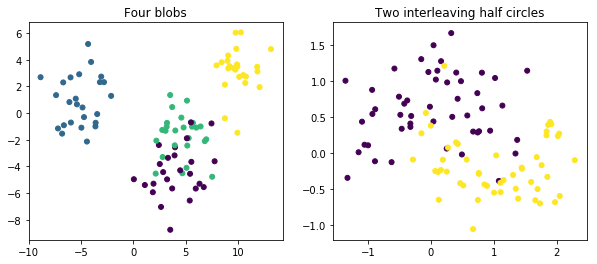
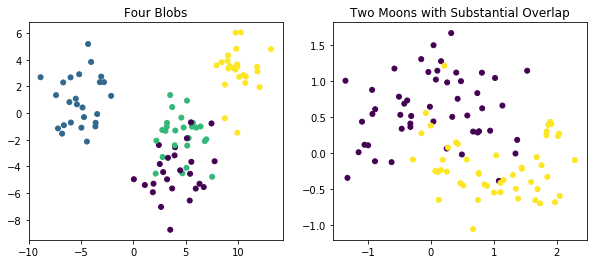
Updating directions.

Changed region(s): [[0.5729, 0.0303, 0.9648, 0.0909], [0.2412, 0.0303, 0.3317, 0.0606]]

diff --git a/README.md b/README.md
@@ -1,9 +1,9 @@
 
-# Kernels in scikit-learn - Lab
+# Kernels in sci-kit learn - Lab
 
 ## Introduction
 
-In this lab, we'll explore applying several types of Kernels on some more visual data. At the end of the lab, we'll be looking at a real-life data set again to see how SVMs can be of use there!
+In this lab, you'll explore applying several types of kernels on some more visual data. At the end of the lab, you'll then apply your knowledge of SVMs to a real world dataset!
 
 ## Objectives
 
@@ -15,7 +15,7 @@ You will be able to:
 
 ## The data
 
-Let's start this lab where we left things last time: we had a data set which clearly wasn't linearly separable. Next, we'll look at the data with four clusters, as non-linear boundaries might be appropriate here as well. Let's plot the data again.
+To start, reexamine the final datasets from the previous lab.
 
 
 ```python
@@ -30,12 +30,12 @@ import numpy as np
 
 plt.figure(figsize=(10, 4))
 plt.subplot(121)
-plt.title("Four blobs")
+plt.title("Four Blobs")
 X_3, y_3 = make_blobs(n_samples=100, n_features=2, centers=4, cluster_std=1.6, random_state = 123)
 plt.scatter(X_3[:, 0], X_3[:, 1], c = y_3, s=25)
 
 plt.subplot(122)
-plt.title("Two interleaving half circles")
+plt.title("Two Moons with Substantial Overlap")
 X_4, y_4 = make_moons(n_samples=100, shuffle = False , noise = 0.3, random_state=123)
 plt.scatter(X_4[:, 0], X_4[:, 1], c = y_4, s=25)
 
@@ -46,11 +46,11 @@ plt.show()
 ![png](index_files/index_7_0.png)
 
 
+  
+
 ## Explore the RBF kernel
 
-In this exercise, we'll explore the RBF kernel looking at the "Two interleaving half circles" data.
-
-Recall how a radial basis function kernel has 2 hyperparameters: `C` and `gamma`. Let's explore RBFs for some values of C and gamma. Using [this resource as a source of inspiration](https://scikit-learn.org/stable/auto_examples/svm/plot_rbf_parameters.html), create 3 x 3 plots for values of gamma = [0.1, 1, 100] and C = [0.1, 1, 100]. Each of the 9 plots should look like this:
+Recall how a radial basis function kernel has 2 hyperparameters: `C` and `gamma`. To further investigate tuning, you'll generate 9 subplots with varying parameter values and plot the resulting decision boundaries. Take a look at this [example from sci-kit learn](https://scikit-learn.org/stable/auto_examples/svm/plot_rbf_parameters.html) as inspiration. Each of the 9 plots should look like this:
 
 ![](SVM_rbf.png)
 
@@ -153,7 +153,7 @@ Look at 9 solutions using the following values for $\gamma$ and $r$.
 
 ## Explore the Polynomial Kernels again, yet now performing a train-test-split
 
-Explore the same parameters you did before when exploring Polynomial Kernels
+Explore the same parameters you did before when exploring polynomial kernels
 - Do a train test split of 2/3 train vs 1/3 test. 
 - Train the model on the training set, plot the result and theh accuracy score.
 - Next, plot the model with the test set and the resulting accuracy score. Make some notes for yourself on training vs test performance and selecting an appropriate model based on these results.
@@ -184,9 +184,11 @@ Explore the same parameters you did before when exploring Polynomial Kernels
 
 ## A higher-dimensional, real world data set
 
-Until now, we've only considered data sets with 2 features to make it easy to understand what's going on visually. Remember that you can use Support Vector Machines on a wide range of classification data sets, with more than 2 features. It will no longer be possible to visually represent decision boundaries (at least, if you have more than 3 feature spaces), but you'll still be able to make predictions.
+Until now, you've only explored data sets with 2 features to make it easy to visualize the decision boundary. Remember that you can use Support Vector Machines on a wide range of classification data sets, with more than 2 features. While you will no longer be able to visually represent decision boundaries (at least, if you have more than 3 feature spaces), you'll still be able to make predictions.
 
-Let's use the salaries dataset again (in `salaries_final.csv`). Recall that the 6 predictors are:
+To do this, you'll use the salaries dataset again (in `salaries_final.csv`). 
+
+This dataset has 6 predictors:
 
 - `Age`: continuous.
 
@@ -200,7 +202,7 @@ Let's use the salaries dataset again (in `salaries_final.csv`). Recall that the 
 
 - `Sex`: Female, Male.
 
-We've imported the data for you and have also converted the data set using `dmatrices`. Look at the final data structure! `dmatrices` is used very often for preprocessing data with continuous and categorical predictors.
+Simply run the code below to import and preview the dataset. Be sure to note the data type produced by`dmatrices`. `dmatrices` is often used for preprocessing data with continuous and categorical predictors.
 
 
 ```python
@@ -246,8 +248,8 @@ Now build a simple linear SVM using this data. Note that using SVC, some slack i
 # Your code here
 ```
 
-Note that it takes quite a while to compute this. The score is slightly better than the best result obtained using decision trees, but do note that SVMs are computationally expensive. Changing kernels can even make computation times much longer.
+> Warning: It takes quite a while to compute this! The score is slightly better than the best result obtained using decision trees, but at the cost of computational resources. Changing kernels can make computation times even longer.
 
 ## Summary
 
-Great, you've got plenty of practice in on Support Vector Machines! In this lab you explored kernels and applying SVM on real-life data!
+Great, you've got plenty of practice in on Support Vector Machines! In this lab you explored kernels and applying SVMs to real-life data!
